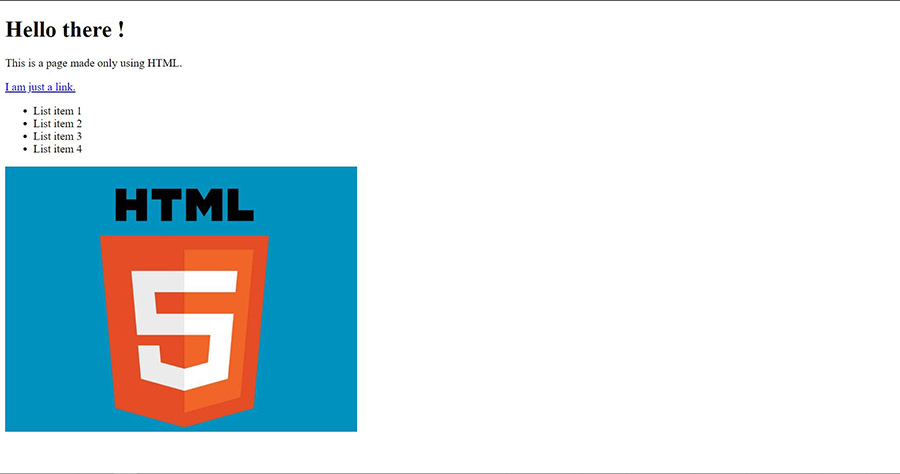
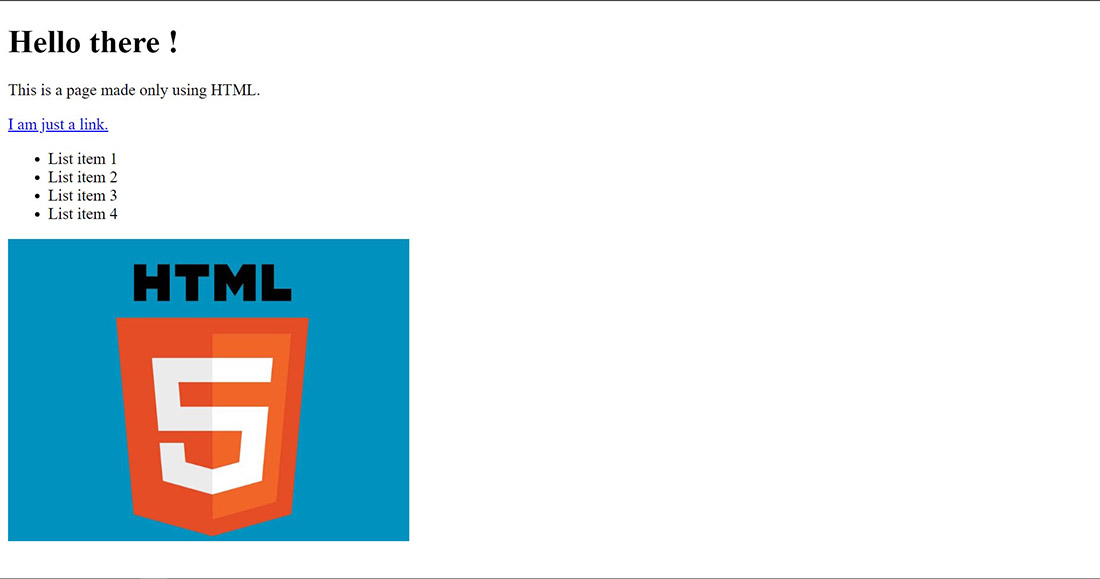
Add files via upload

Changed region(s): [[0.0, 0.1181, 0.4044, 0.9451], [0.0, 0.0295, 0.1867, 0.0886]]

diff --git a/index.html b/index.html
@@ -7,7 +7,7 @@
     <title>Document</title>
     <style>
         img {
-            width: 900px;
+            width: 1100px;
             max-width: 100%;
         }
     </style>
